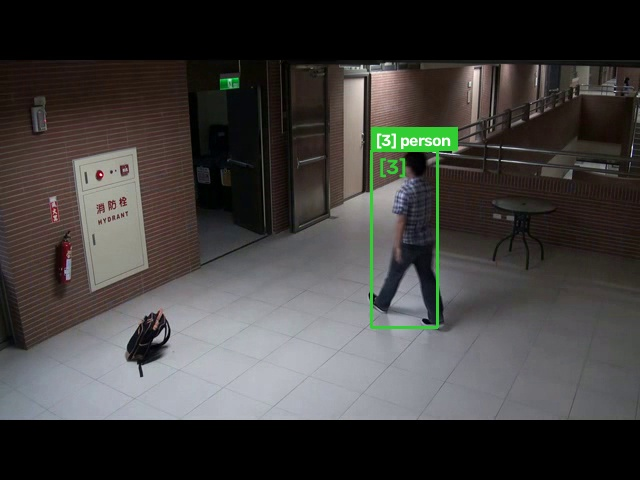
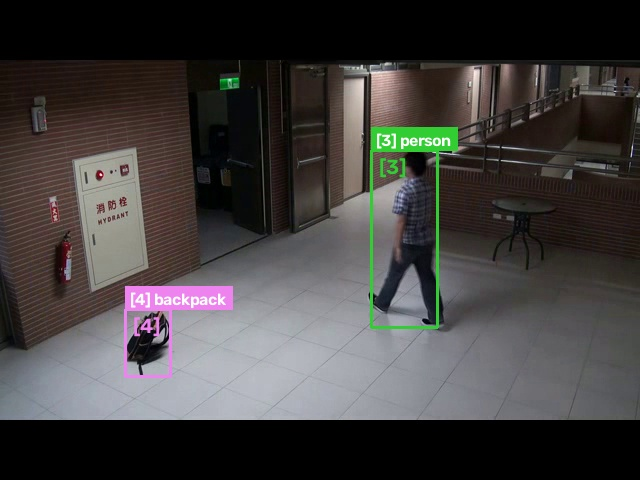
feat(vidvrd): hoan thien Task 1 Pipeline YOLOE + VLM NF4-4bit va chuan hoa Prompt VidVRD
- pipeline_yoloe.py: Bo loc cung disp < 20px, giu 100% vat the scene ben vung; tich hop gom cum nhan khong gian (Spatial Cross-Class Merging) giai quyet dao dong nhan.

- configs/custom_bytetrack.yaml: Cap nhat new_track_thresh: 0.4 dong bo nguong phat hien.

- data/prompt_system_general.txt & payloads: Dong bo 4 tru cot quy chuan ngu nghia thi giac (Clean ID, Triplet Uniqueness & Predicate Exclusivity, Temporal Action Continuity, Physical Hand-Grasp Requirement).

- run_qwen3_vl_4b_colab.ipynb: Tich hop luong tu hoa 4-bit NF4 (BitsAndBytes) cho Qwen3-VL-4B-Instruct, toi uu VRAM con 9.5 GB tren GPU T4, triet tieu CUDA OOM.

- docs/TASK.md: Ghi nhan ket qua Task 1 va chuan bi chuyen giao Task 2 (Spatial Clustering & ROI Dynamic Zoom Crop).

Changed region(s): [[0.1875, 0.5938, 0.375, 0.8125]]

diff --git a/pipeline_yoloe.py b/pipeline_yoloe.py
@@ -482,17 +482,48 @@ for track in stitched_tracklets:
                     interp_box = ((1.0 - alpha) * ba + alpha * bb).astype(int)
                     track['frame_map'][missing_f] = interp_box
 
-# Filter Inactive Clutter vs Interactive Forward Objects
-# Rule 3: Zero-Displacement Inactive Clutter
-# A carried/manipulated object MUST have active spatial displacement (displacement >= 20px) and sufficient persistence (hits >= 25)
+# ==============================================================================
+# SPATIAL CROSS-CLASS MERGING & PERSISTENT SCENE OBJECT RETENTION
+# In compliance with Mentor's directive: Zero hardcoded displacement suppression at detector level.
+# All persistent objects (dynamic or stationary) are marked; VLM prompt filters inactive clutter.
+# ==============================================================================
+persistent_tracklets = [tr for tr in stitched_tracklets if len(tr['frame_map']) >= 25]
+
+# Merge overlapping tracklets at the same physical location (resolves detector class oscillations, e.g., backpack vs handbag)
+merged_objects = []
+for tr in persistent_tracklets:
+    matched = None
+    for mo in merged_objects:
+        common_f = set(tr['frame_map'].keys()) & set(mo['frame_map'].keys())
+        if len(common_f) >= 8:
+            ious = [compute_iou(tr['frame_map'][f], mo['frame_map'][f]) for f in common_f]
+            if np.median(ious) > 0.35:
+                matched = mo
+                break
+        else:
+            b1_arr = np.array(list(tr['frame_map'].values()))
+            b2_arr = np.array(list(mo['frame_map'].values()))
+            c1 = (np.mean(b1_arr[:, 0] + b1_arr[:, 2]) / 2.0, np.mean(b1_arr[:, 1] + b1_arr[:, 3]) / 2.0)
+            c2 = (np.mean(b2_arr[:, 0] + b2_arr[:, 2]) / 2.0, np.mean(b2_arr[:, 1] + b2_arr[:, 3]) / 2.0)
+            if np.hypot(c1[0] - c2[0], c1[1] - c2[1]) < 35.0:
+                matched = mo
+                break
+
+    if matched is not None:
+        matched['frame_map'].update(tr['frame_map'])
+        matched['confs'].extend(tr['confs'])
+        matched['class_votes'][tr['class']] = matched['class_votes'].get(tr['class'], 0) + len(tr['confs'])
+        matched['class'] = max(matched['class_votes'].items(), key=lambda kv: kv[1])[0]
+        matched['last_frame'] = max(matched['last_frame'], tr['last_frame'])
+    else:
+        tr['class_votes'] = {tr['class']: len(tr['confs'])}
+        merged_objects.append(tr)
+
 confirmed_active_objects = []
 next_entity_id = num_persons + 1
 
-for track in stitched_tracklets:
+for track in merged_objects:
     hits = len(track['frame_map'])
-    if hits < 25:
-        continue  # omit transient fragments and flickers
-
     boxes_arr = np.array(list(track['frame_map'].values()))
     cxs = (boxes_arr[:, 0] + boxes_arr[:, 2]) / 2.0
     cys = (boxes_arr[:, 1] + boxes_arr[:, 3]) / 2.0
@@ -500,16 +531,12 @@ for track in stitched_tracklets:
     mean_conf = float(np.mean(track['confs']))
     obj_class = track['class']
 
-    # Clutter rejection: an object that stays in the exact same spot is inactive clutter
-    if total_displacement < 20.0:
-        print(f"Skipped Inactive Background Clutter: '{obj_class}', hits={hits}, displacement={total_displacement:.1f}px (<20px threshold)")
-        continue
-
     track['id'] = next_entity_id
     track['mean_conf'] = mean_conf
     track['displacement'] = total_displacement
     confirmed_active_objects.append(track)
-    print(f"Confirmed Active Forward Object: ID=[{next_entity_id}], class='{obj_class}', hits={hits}, mean_conf={mean_conf:.2f}, displacement={total_displacement:.1f}px")
+    status_str = "Dynamic Moving" if total_displacement >= 20.0 else "Stationary Resting"
+    print(f"Confirmed Scene Object: ID=[{next_entity_id}], class='{obj_class}', hits={hits}, mean_conf={mean_conf:.2f}, displacement={total_displacement:.1f}px ({status_str})")
     next_entity_id += 1
 
 # Stationary Forward-Fill (Object Placement Persistence)
@@ -739,13 +766,17 @@ prompt_payload = {
         "PREDEFINED RELATION TAXONOMY (CLOSED VOCABULARY):\n"
         f"Every predicate in the 'relation' field MUST be an exact string match selected strictly from the 26 allowed categories: {relations_list}. All out-of-vocabulary verbs are strictly prohibited.\n"
         "- Strictly evaluate interactions ONLY between marked entities [ID]. Completely ignore unmarked objects or background clutter; NEVER substitute an unmarked item with a marked person.\n"
-        "- Predicates 'carry' and 'hold' apply strictly between a Person (subject) and a moveable Object (e.g., bag, suitcase). A person cannot 'carry' another person unless physically lifting them off the ground.\n"
+        "- Clean ID Formatting: In the 'subject' and 'object' fields, output strictly the clean mark ID string (e.g. '[1]', '[2]') without appending class names or descriptive words.\n"
+        "- Triplet Uniqueness & Predicate Exclusivity: Report each unique relation between a subject and an object AT MOST ONCE for the entire clip. Between the same subject and object, interaction predicates are strictly mutually exclusive: output ONLY the single most comprehensive predicate (e.g., casual contact during walking, greeting, or parting is categorized strictly as 'touch', never 'push'). Do NOT output duplicate or conflicting triplets for different frames.\n"
+        "- Temporal Action Continuity: Sequential phases of an interaction across time (such as approaching, extending an arm, making contact, and parting) constitute ONE unified interaction event. Do NOT fragment preparatory reaching motions into a separate 'push' relation.\n"
+        "- Interpersonal Actions: Categorize casual physical contact between persons (such as placing a hand on a shoulder, touching an arm or body, or tapping) strictly as 'touch'. Reserve 'push' and 'pull' strictly for visible forceful shoving where an entity is visibly propelled, knocked off balance, or dragged.\n"
+        - Predicates 'carry' and 'hold' apply strictly between a Person (subject) and a moveable Object. A person cannot 'carry' another person unless physically lifting them off the ground.\n"
+        "- PHYSICAL HAND-GRASP REQUIREMENT: 'carry' and 'hold' strictly require direct physical hand contact (grasping, gripping, or lifting the object). If an object is resting on the floor or surface and a person's hands are not physically grasping it (e.g., hands are raised, swinging, or interacting with another person), the person is NOT carrying or holding it. Merely walking past, stepping near, or standing over an object on the ground is NOT an interaction; omit that pair.\n"
         "- Predicates like 'get_on', 'get_off', 'ride', 'drive' apply ONLY to vehicles or animals.\n"
-        "- Categorize active physical contact between persons as 'touch'.\n"
-        "- Categorize a person holding and transporting an object while moving as 'carry', and holding statically as 'hold'.\n"
+        "- Categorize a person holding and transporting an object with their hands while moving as 'carry', and holding statically as 'hold'.\n"
         "- If an object remains stationary in the same location across all frames without movement, omit that pair.\n"
         "- If an active interaction occurs in any frames, report that relation even if it ends later.\n"
-        "- In the 'reason' field, describe strictly the interaction between this subject and this object without referencing other entities.\n\n"
+        "- In the 'reason' field, describe strictly the visible physical contact between this subject and this object without referencing other entities.\n\n"
         'Respond strictly with the JSON object: {"triplets": [{"subject": "[ID]", "relation": "<verb>", "object": "[ID]", "reason": "..."}]}.'
     ),
     "ground_truth_triplet_labels": (
